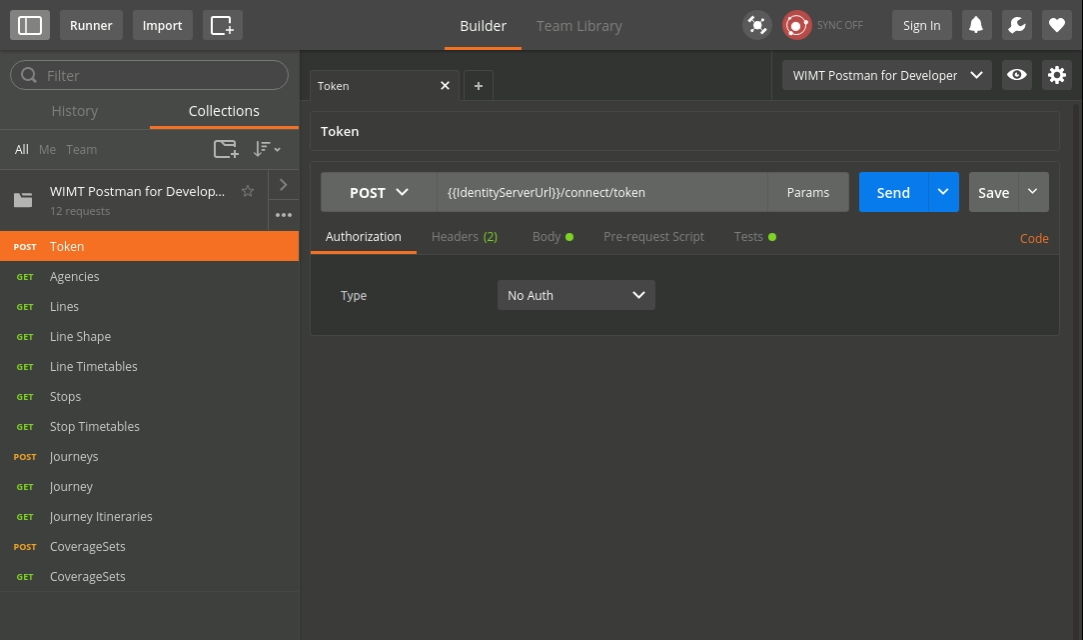
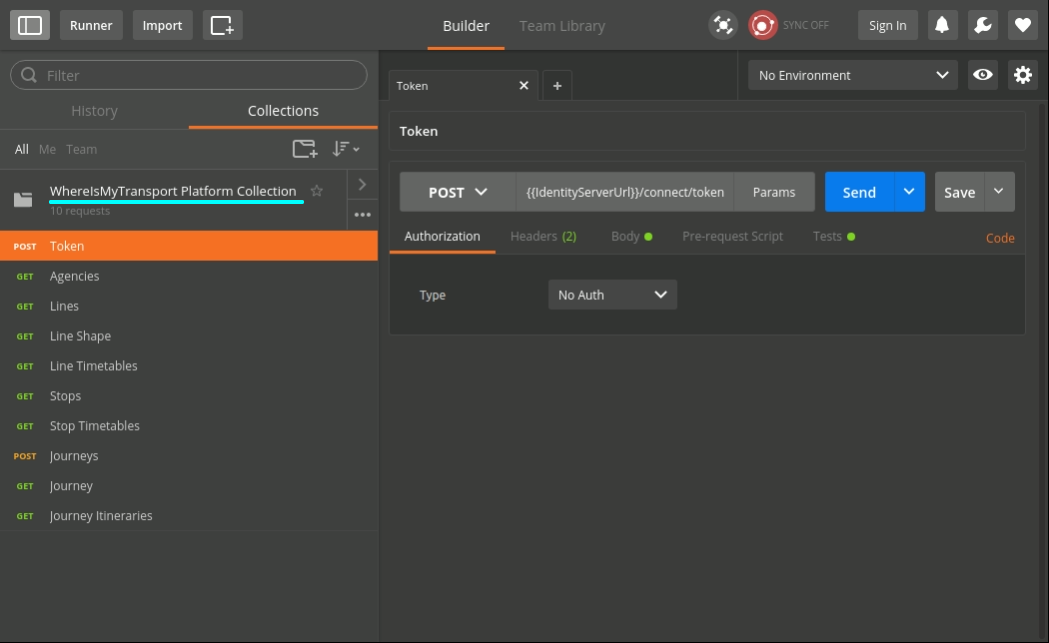
removed WIMT everywhere... updated images

diff --git a/tapi/postman/PostmanREADME.md b/tapi/postman/PostmanREADME.md
@@ -13,12 +13,11 @@ At the end of this guide you will have completed the following:
 - Request a Token using the created Client
 - Make API calls to the WhereIsMyTransport platform, using the acquired Token
 
-
 ## Setup Postman
 
 1. Download [**Postman**](https://www.getpostman.com/)
-2. Download the **WhereIsMyTransport** [Postman **Collection**](WimtPlatformCollection.json)
-3. Download the **WhereIsMyTransport** [Postman **Environment**](WimtPlatformEnvironment.json)
+2. Download the **WhereIsMyTransport** [Postman **Collection**](PlatformCollection.json)
+3. Download the **WhereIsMyTransport** [Postman **Environment**](PlatformEnvironment.json)
 4. Open Postman and Add the above **Collection** and **Environment** as follows:
 
     4.1 **Adding the Collection**
